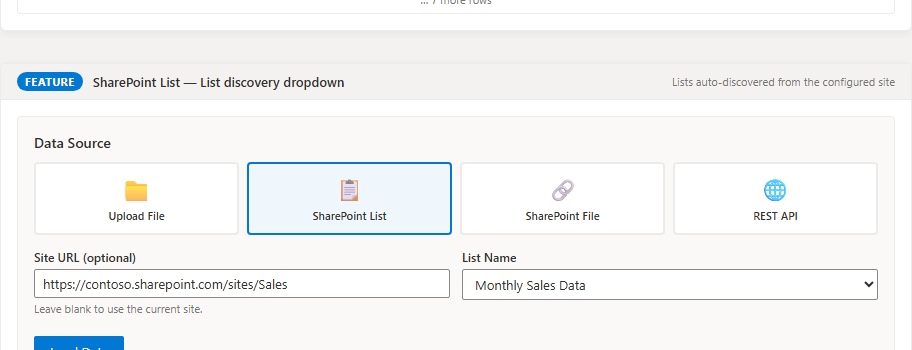
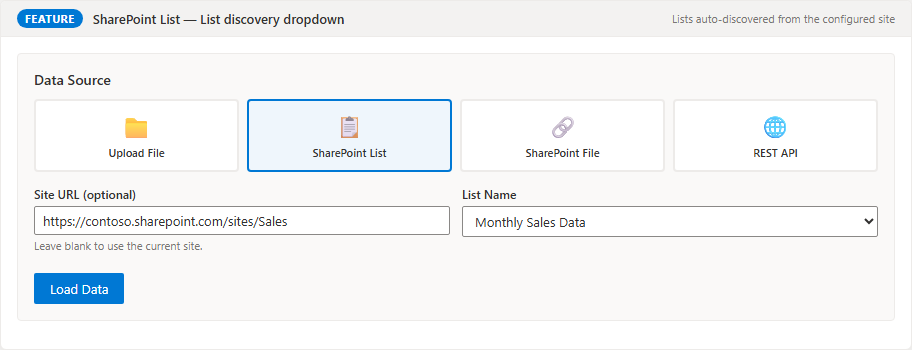
Made normal size color chart

diff --git a/mockups/screenshot-guide.html b/mockups/screenshot-guide.html
@@ -1003,7 +1003,9 @@ Object.entries(P).forEach(([name, colors]) => {
   div.style.cssText = 'text-align:center;';
   div.innerHTML = `
     <div style="font-size:11px;font-weight:600;color:#323130;margin-bottom:6px;text-transform:capitalize;">${name}</div>
-    <canvas id="pal-${name}" height="80"></canvas>
+    <div style="position:relative;height:80px;">
+      <canvas id="pal-${name}"></canvas>
+    </div>
   `;
   paletteGrid.appendChild(div);
   setTimeout(() => {